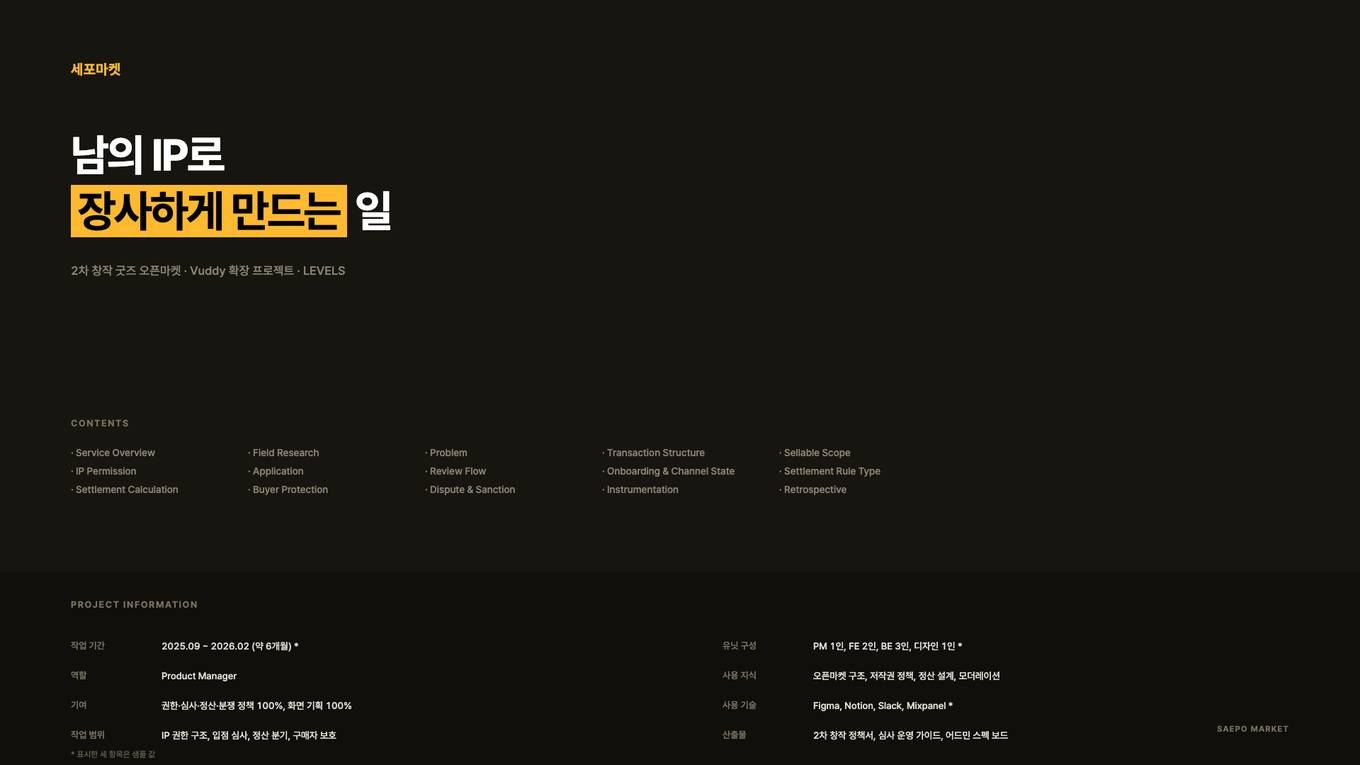
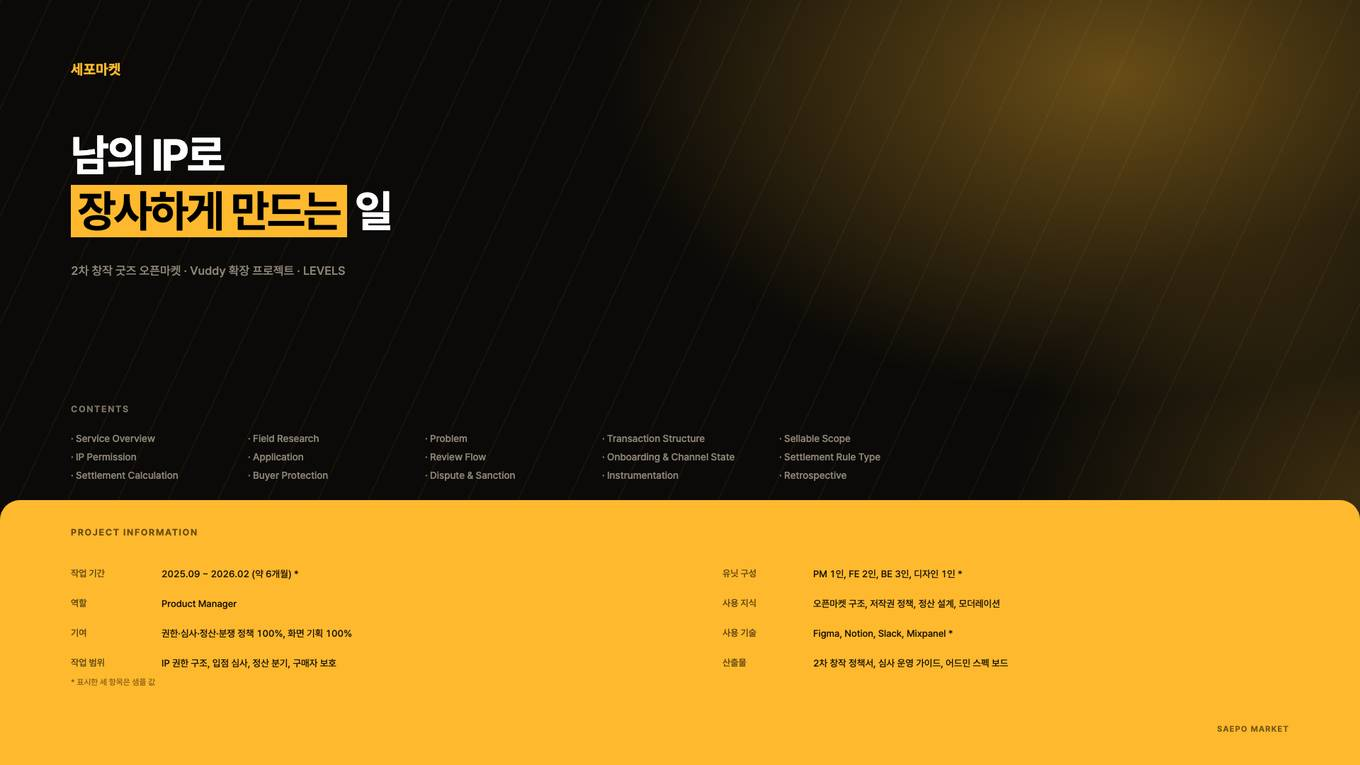
세포마켓 표지 슬라이드에 키컬러 배경 + 프로젝트 인포 패널 적용
세포마켓 덱에는 Vuddy 같은 실사 키아트가 없어서, 앰버 키컬러
(var(--lime): #FFB92E) 라디얼 글로우 + 미세한 대각선 텍스처로 추상
배경을 구성하고 좌측은 어둡게 유지해 텍스트 가독성을 확보.

- PROJECT INFORMATION 패널을 다른 케이스들과 같은 비율로 재배치
  (top 808→706, height 272→374, 상단 라운드) 하고 앰버 키컬러로 채움,
  텍스트는 다크 잉크로 대비 확보
- CONTENTS 목록 위치를 살짝 위로 당겨 패널과 안 겹치게 정리
- 포트폴리오 릴 썸네일(images/sepo1.jpg)을 새 표지(첫 페이지)로 재캡처

diff --git a/works/sepo-embed.html b/works/sepo-embed.html
@@ -425,20 +425,21 @@ svg{font-family:Pretendard;font-variant-numeric:tabular-nums}
 .tg .sw.off{background:#DCD8D0}
 .tg .sw.off::after{right:auto;left:3px}
 </style></head><body>
-<div class="wrap" id="sp-01"><div class="stage"><div class="fr cov">
+<div class="wrap" id="sp-01"><div class="stage"><div class="fr cov" style="background:radial-gradient(1200px 760px at 82% 10%, rgba(255,185,46,.38), transparent 60%),radial-gradient(900px 700px at 100% 65%, rgba(255,185,46,.20), transparent 55%),radial-gradient(700px 600px at 60% 105%, rgba(255,185,46,.10), transparent 60%),#0B0A08;">
+ <div style="position:absolute;inset:0;background-image:repeating-linear-gradient(115deg, rgba(255,185,46,.05) 0 2px, transparent 2px 64px)"></div>
  <div style="position:absolute;left:100px;top:86px;font-size:20px;font-weight:700;color:var(--lime);letter-spacing:.02em">세포마켓</div>
  <div style="position:absolute;left:100px;top:180px;width:1300px;font-size:62px;font-weight:700;
    color:#fff;line-height:1.28;letter-spacing:-.04em">남의 IP로<br><em style="font-style:normal;background:var(--lime);color:#000;padding:0 10px">장사하게 만드는</em> 일</div>
  <div style="position:absolute;left:100px;top:372px;width:1300px;font-size:17px;font-weight:500;color:#8C8374">
    2차 창작 굿즈 오픈마켓 · Vuddy 확장 프로젝트 · LEVELS</div>
- <div style="position:absolute;left:100px;top:590px;font-size:13px;font-weight:700;color:#7A7160;letter-spacing:.12em">CONTENTS</div>
- <div style="position:absolute;left:100px;top:626px;width:1400px;display:flex;flex-wrap:wrap;gap:0"><div style="width:250px;font-size:14px;color:#8C8374;font-weight:500;padding:5px 0">· Service Overview</div><div style="width:250px;font-size:14px;color:#8C8374;font-weight:500;padding:5px 0">· Field Research</div><div style="width:250px;font-size:14px;color:#8C8374;font-weight:500;padding:5px 0">· Problem</div><div style="width:250px;font-size:14px;color:#8C8374;font-weight:500;padding:5px 0">· Transaction Structure</div><div style="width:250px;font-size:14px;color:#8C8374;font-weight:500;padding:5px 0">· Sellable Scope</div><div style="width:250px;font-size:14px;color:#8C8374;font-weight:500;padding:5px 0">· IP Permission</div><div style="width:250px;font-size:14px;color:#8C8374;font-weight:500;padding:5px 0">· Application</div><div style="width:250px;font-size:14px;color:#8C8374;font-weight:500;padding:5px 0">· Review Flow</div><div style="width:250px;font-size:14px;color:#8C8374;font-weight:500;padding:5px 0">· Onboarding & Channel State</div><div style="width:250px;font-size:14px;color:#8C8374;font-weight:500;padding:5px 0">· Settlement Rule Type</div><div style="width:250px;font-size:14px;color:#8C8374;font-weight:500;padding:5px 0">· Settlement Calculation</div><div style="width:250px;font-size:14px;color:#8C8374;font-weight:500;padding:5px 0">· Buyer Protection</div><div style="width:250px;font-size:14px;color:#8C8374;font-weight:500;padding:5px 0">· Dispute & Sanction</div><div style="width:250px;font-size:14px;color:#8C8374;font-weight:500;padding:5px 0">· Instrumentation</div><div style="width:250px;font-size:14px;color:#8C8374;font-weight:500;padding:5px 0">· Retrospective</div></div>
- <div style="position:absolute;left:0;top:808px;width:1920px;height:272px;background:#100F0B">
-  <div style="position:absolute;left:100px;top:38px;font-size:13px;font-weight:700;color:#7A7160;letter-spacing:.12em">PROJECT INFORMATION</div>
-  <div style="position:absolute;left:100px;top:96px;width:110px;font-size:13px;color:#7A7160;font-weight:600">작업 기간</div><div style="position:absolute;left:228px;top:96px;width:660px;font-size:13.5px;color:#E4DFD4;font-weight:500">2025.09 ~ 2026.02 (약 6개월) *</div><div style="position:absolute;left:100px;top:138px;width:110px;font-size:13px;color:#7A7160;font-weight:600">역할</div><div style="position:absolute;left:228px;top:138px;width:660px;font-size:13.5px;color:#E4DFD4;font-weight:500">Product Manager</div><div style="position:absolute;left:100px;top:180px;width:110px;font-size:13px;color:#7A7160;font-weight:600">기여</div><div style="position:absolute;left:228px;top:180px;width:660px;font-size:13.5px;color:#E4DFD4;font-weight:500">권한·심사·정산·분쟁 정책 100%, 화면 기획 100%</div><div style="position:absolute;left:100px;top:222px;width:110px;font-size:13px;color:#7A7160;font-weight:600">작업 범위</div><div style="position:absolute;left:228px;top:222px;width:660px;font-size:13.5px;color:#E4DFD4;font-weight:500">IP 권한 구조, 입점 심사, 정산 분기, 구매자 보호</div><div style="position:absolute;left:1020px;top:96px;width:110px;font-size:13px;color:#7A7160;font-weight:600">유닛 구성</div><div style="position:absolute;left:1148px;top:96px;width:660px;font-size:13.5px;color:#E4DFD4;font-weight:500">PM 1인, FE 2인, BE 3인, 디자인 1인 *</div><div style="position:absolute;left:1020px;top:138px;width:110px;font-size:13px;color:#7A7160;font-weight:600">사용 지식</div><div style="position:absolute;left:1148px;top:138px;width:660px;font-size:13.5px;color:#E4DFD4;font-weight:500">오픈마켓 구조, 저작권 정책, 정산 설계, 모더레이션</div><div style="position:absolute;left:1020px;top:180px;width:110px;font-size:13px;color:#7A7160;font-weight:600">사용 기술</div><div style="position:absolute;left:1148px;top:180px;width:660px;font-size:13.5px;color:#E4DFD4;font-weight:500">Figma, Notion, Slack, Mixpanel *</div><div style="position:absolute;left:1020px;top:222px;width:110px;font-size:13px;color:#7A7160;font-weight:600">산출물</div><div style="position:absolute;left:1148px;top:222px;width:660px;font-size:13.5px;color:#E4DFD4;font-weight:500">2차 창작 정책서, 심사 운영 가이드, 어드민 스펙 보드</div>
-  <div style="position:absolute;left:100px;top:250px;font-size:11.5px;color:#655D4E;font-weight:500">* 표시한 세 항목은 샘플 값</div>
+ <div style="position:absolute;left:100px;top:570px;font-size:13px;font-weight:700;color:#7A7160;letter-spacing:.12em">CONTENTS</div>
+ <div style="position:absolute;left:100px;top:606px;width:1400px;display:flex;flex-wrap:wrap;gap:0"><div style="width:250px;font-size:14px;color:#8C8374;font-weight:500;padding:5px 0">· Service Overview</div><div style="width:250px;font-size:14px;color:#8C8374;font-weight:500;padding:5px 0">· Field Research</div><div style="width:250px;font-size:14px;color:#8C8374;font-weight:500;padding:5px 0">· Problem</div><div style="width:250px;font-size:14px;color:#8C8374;font-weight:500;padding:5px 0">· Transaction Structure</div><div style="width:250px;font-size:14px;color:#8C8374;font-weight:500;padding:5px 0">· Sellable Scope</div><div style="width:250px;font-size:14px;color:#8C8374;font-weight:500;padding:5px 0">· IP Permission</div><div style="width:250px;font-size:14px;color:#8C8374;font-weight:500;padding:5px 0">· Application</div><div style="width:250px;font-size:14px;color:#8C8374;font-weight:500;padding:5px 0">· Review Flow</div><div style="width:250px;font-size:14px;color:#8C8374;font-weight:500;padding:5px 0">· Onboarding & Channel State</div><div style="width:250px;font-size:14px;color:#8C8374;font-weight:500;padding:5px 0">· Settlement Rule Type</div><div style="width:250px;font-size:14px;color:#8C8374;font-weight:500;padding:5px 0">· Settlement Calculation</div><div style="width:250px;font-size:14px;color:#8C8374;font-weight:500;padding:5px 0">· Buyer Protection</div><div style="width:250px;font-size:14px;color:#8C8374;font-weight:500;padding:5px 0">· Dispute & Sanction</div><div style="width:250px;font-size:14px;color:#8C8374;font-weight:500;padding:5px 0">· Instrumentation</div><div style="width:250px;font-size:14px;color:#8C8374;font-weight:500;padding:5px 0">· Retrospective</div></div>
+ <div style="position:absolute;left:0;top:706px;width:1920px;height:374px;background:var(--lime);border-radius:28px 28px 0 0">
+  <div style="position:absolute;left:100px;top:38px;font-size:13px;font-weight:700;color:rgba(0,0,0,.6);letter-spacing:.12em">PROJECT INFORMATION</div>
+  <div style="position:absolute;left:100px;top:96px;width:110px;font-size:13px;color:rgba(0,0,0,.6);font-weight:600">작업 기간</div><div style="position:absolute;left:228px;top:96px;width:660px;font-size:13.5px;color:#150F02;font-weight:500">2025.09 ~ 2026.02 (약 6개월) *</div><div style="position:absolute;left:100px;top:138px;width:110px;font-size:13px;color:rgba(0,0,0,.6);font-weight:600">역할</div><div style="position:absolute;left:228px;top:138px;width:660px;font-size:13.5px;color:#150F02;font-weight:500">Product Manager</div><div style="position:absolute;left:100px;top:180px;width:110px;font-size:13px;color:rgba(0,0,0,.6);font-weight:600">기여</div><div style="position:absolute;left:228px;top:180px;width:660px;font-size:13.5px;color:#150F02;font-weight:500">권한·심사·정산·분쟁 정책 100%, 화면 기획 100%</div><div style="position:absolute;left:100px;top:222px;width:110px;font-size:13px;color:rgba(0,0,0,.6);font-weight:600">작업 범위</div><div style="position:absolute;left:228px;top:222px;width:660px;font-size:13.5px;color:#150F02;font-weight:500">IP 권한 구조, 입점 심사, 정산 분기, 구매자 보호</div><div style="position:absolute;left:1020px;top:96px;width:110px;font-size:13px;color:rgba(0,0,0,.6);font-weight:600">유닛 구성</div><div style="position:absolute;left:1148px;top:96px;width:660px;font-size:13.5px;color:#150F02;font-weight:500">PM 1인, FE 2인, BE 3인, 디자인 1인 *</div><div style="position:absolute;left:1020px;top:138px;width:110px;font-size:13px;color:rgba(0,0,0,.6);font-weight:600">사용 지식</div><div style="position:absolute;left:1148px;top:138px;width:660px;font-size:13.5px;color:#150F02;font-weight:500">오픈마켓 구조, 저작권 정책, 정산 설계, 모더레이션</div><div style="position:absolute;left:1020px;top:180px;width:110px;font-size:13px;color:rgba(0,0,0,.6);font-weight:600">사용 기술</div><div style="position:absolute;left:1148px;top:180px;width:660px;font-size:13.5px;color:#150F02;font-weight:500">Figma, Notion, Slack, Mixpanel *</div><div style="position:absolute;left:1020px;top:222px;width:110px;font-size:13px;color:rgba(0,0,0,.6);font-weight:600">산출물</div><div style="position:absolute;left:1148px;top:222px;width:660px;font-size:13.5px;color:#150F02;font-weight:500">2차 창작 정책서, 심사 운영 가이드, 어드민 스펙 보드</div>
+  <div style="position:absolute;left:100px;top:250px;font-size:11.5px;color:rgba(0,0,0,.48);font-weight:500">* 표시한 세 항목은 샘플 값</div>
  </div>
- <div class="pgn w" style="color:#7A7160">SAEPO MARKET</div>
+ <div class="pgn w" style="color:rgba(0,0,0,.55)">SAEPO MARKET</div>
 </div></div></div>
 <div class="wrap" id="sp-02"><div class="stage"><div class="fr">
  <div class="rl a"></div><div class="rl b"></div>
